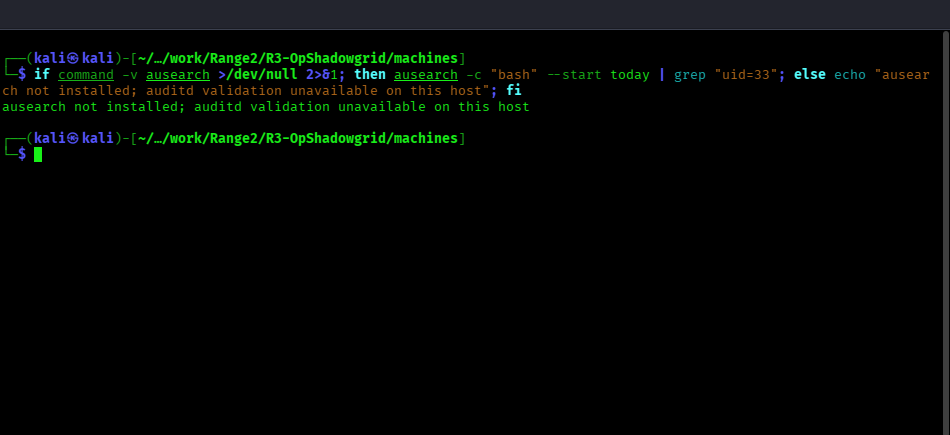
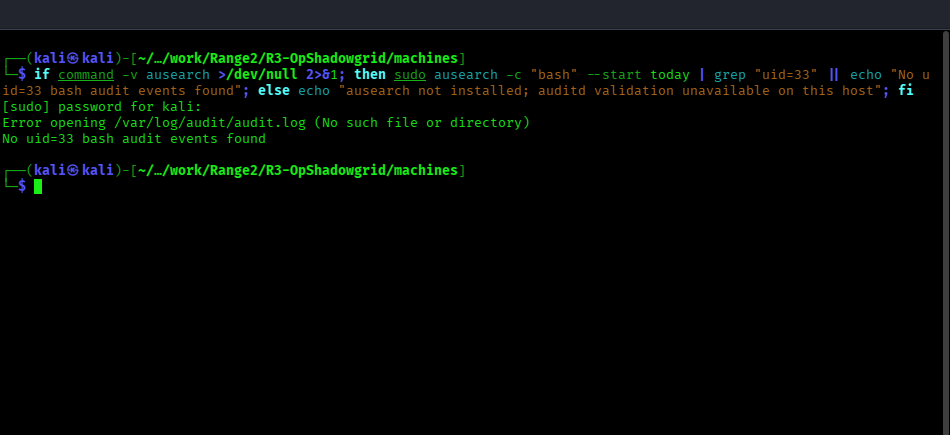
Fix M1 auditd detection evidence

Changed region(s): [[0.0, 0.1494, 0.9768, 0.4483]]

diff --git a/R3-OpShadowgrid/machines/M1-nova-web/solve_blue.md b/R3-OpShadowgrid/machines/M1-nova-web/solve_blue.md
@@ -61,9 +61,9 @@ grep -n -E "page=.*(passwd|novatech_access|apache2)|cmd=" /var/log/novatech_acce
 
 ### 5. Shell Process from Apache (SIEM / Auditd)
 
-If auditd is deployed:
+If auditd is deployed, run `ausearch` with root access because the audit log is not readable by the regular user:
 ```bash
-if command -v ausearch >/dev/null 2>&1; then ausearch -c "bash" --start today | grep "uid=33"; else echo "ausearch not installed; auditd validation unavailable on this host"; fi
+if command -v ausearch >/dev/null 2>&1; then sudo ausearch -c "bash" --start today | grep "uid=33" || echo "No uid=33 bash audit events found"; else echo "ausearch not installed; auditd validation unavailable on this host"; fi
 ```
 
 ![Auditd availability check](screenshots/m1_blue_05_audit_check.png)
